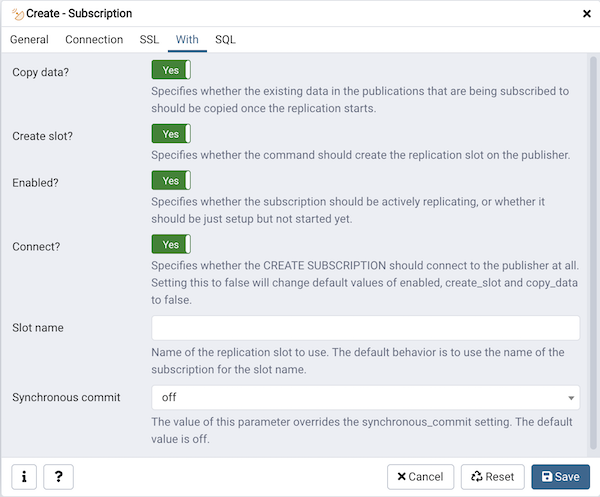
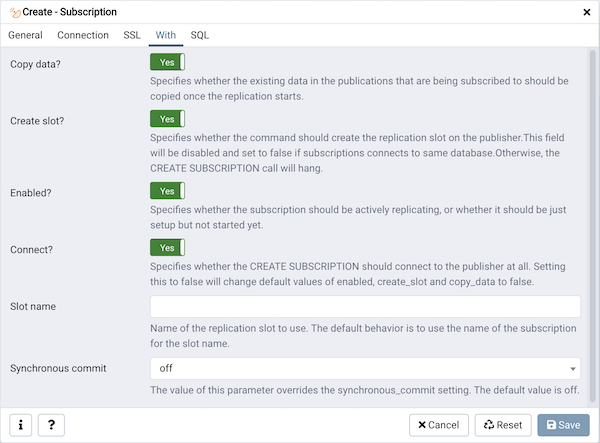
1) Fixed an issue where the user is unable to create a subscription if the host/IP address for connection is 127.0.0.1. Fixes #6253 2) Ensure that proper error message should be shown on the properties and statistics tab in case of insufficient privileges for a subscription. Fixes #6259 3) Fixed an 

diff --git a/web/pgadmin/browser/server_groups/servers/databases/subscriptions/static/js/subscription.js b/web/pgadmin/browser/server_groups/servers/databases/subscriptions/static/js/subscription.js
@@ -396,8 +396,8 @@ define('pgadmin.node.subscription', [
           type: 'switch', mode: ['create'],
           group: gettext('With'),
           disabled: 'isSameDB',
-          readonly: 'isConnect', deps :['connect', 'host'],
-          helpMessage: gettext('Specifies whether the command should create the replication slot on the publisher.'),
+          readonly: 'isConnect', deps :['connect', 'host', 'port'],
+          helpMessage: gettext('Specifies whether the command should create the replication slot on the publisher.This field will be disabled and set to false if subscription connects to same database.Otherwise, the CREATE SUBSCRIPTION call will hang.'),
 
         },
         {
@@ -456,7 +456,14 @@ define('pgadmin.node.subscription', [
           return true;
         },
         isSameDB:function(m){
-          if (m.attributes['host'] == m.node_info.server.host){
+          let host = m.attributes['host'],
+            port = m.attributes['port'];
+
+          if ((m.attributes['host'] == 'localhost' || m.attributes['host'] == '127.0.0.1') &&
+              (m.node_info.server.host == 'localhost' || m.node_info.server.host == '127.0.0.1')){
+            host = m.node_info.server.host;
+          }
+          if (host == m.node_info.server.host && port == m.node_info.server.port){
             setTimeout( function() {
               m.set('create_slot', false);
             }, 10);

diff --git a/web/pgadmin/browser/static/js/collection.js b/web/pgadmin/browser/static/js/collection.js
@@ -289,7 +289,8 @@ define([
               timer = setTimeout(function() {
                 // notify user if request is taking longer than 1 second
 
-                $msgContainer.text(gettext('Retrieving data from the server...'));
+                if (!$msgContainer.text()== 'Failed to retrieve data from the server.')
+                  $msgContainer.text(gettext('Retrieving data from the server...'));
                 $msgContainer.removeClass('d-none');
                 if (self.grid) {
                   self.grid.remove();

diff --git a/web/pgadmin/browser/server_groups/servers/databases/subscriptions/__init__.py b/web/pgadmin/browser/server_groups/servers/databases/subscriptions/__init__.py
@@ -195,7 +195,7 @@ class SubscriptionView(PGChildNodeView, SchemaDiffObjectCompare):
         'nodes': [{'get': 'node'}, {'get': 'nodes'}],
         'sql': [{'get': 'sql'}],
         'msql': [{'get': 'msql'}, {'get': 'msql'}],
-        'stats': [{'get': 'statistics'}],
+        'stats': [{'get': 'statistics'}, {'get': 'statistics'}],
         'dependency': [{'get': 'dependencies'}],
         'dependent': [{'get': 'dependents'}],
         'get_publications': [{}, {'get': 'get_publications'}],
@@ -260,11 +260,6 @@ class SubscriptionView(PGChildNodeView, SchemaDiffObjectCompare):
         sql = render_template("/".join([self.template_path,
                                         self._PROPERTIES_SQL]), did=did)
         status, res = self.conn.execute_dict(sql)
-
-        # Check for permission denied message
-        if 'permission denied' in res:
-            return internal_server_error(
-                errormsg="Access is revoked for normal users")
 
         if not status:
             return internal_server_error(errormsg=res)
@@ -386,7 +381,7 @@ class SubscriptionView(PGChildNodeView, SchemaDiffObjectCompare):
         return True, res['rows'][0]
 
     @check_precondition
-    def statistics(self, gid, sid, did, subid):
+    def statistics(self, gid, sid, did, subid=None):
         """
         This function gets the statistics and returns an ajax response
         for the view node.
@@ -399,7 +394,7 @@ class SubscriptionView(PGChildNodeView, SchemaDiffObjectCompare):
         """
         sql = render_template("/".join([self.template_path,
                                         'stats.sql']),
-                              subid=subid, conn=self.conn)
+                              subid=subid, did=did, conn=self.conn)
         status, res = self.conn.execute_dict(sql)
         return make_json_response(
             data=res,

diff --git a/web/pgadmin/browser/server_groups/servers/__init__.py b/web/pgadmin/browser/server_groups/servers/__init__.py
@@ -245,6 +245,7 @@ class ServerModule(sg.ServerGroupPluginModule):
                 in_recovery=in_recovery,
                 wal_pause=wal_paused,
                 host=server.host,
+                port=server.port,
                 is_password_saved=bool(server.save_password),
                 is_tunnel_password_saved=True
                 if server.tunnel_password is not None else False,

diff --git a/docs/en_US/release_notes_5_1.rst b/docs/en_US/release_notes_5_1.rst
@@ -24,3 +24,6 @@ Bug fixes
 | `Issue #6018 <https://redmine.postgresql.org/issues/6018>`_ -  Fixed encoding issue when database encoding set to SQL_ASCII and name of the column is in ASCII character.
 | `Issue #6159 <https://redmine.postgresql.org/issues/6159>`_ -  Ensure that the user should be able to kill the session from Dashboard if the user has a 'pg_signal_backend' role.
 | `Issue #6227 <https://redmine.postgresql.org/issues/6227>`_ -  Ensure PGADMIN_DEFAULT_EMAIL looks sane when initialising a container deployment.
+| `Issue #6253 <https://redmine.postgresql.org/issues/6253>`_ -  Fixed an issue where the user is unable to create a subscription if the host/IP address for connection is 127.0.0.1.
+| `Issue #6259 <https://redmine.postgresql.org/issues/6259>`_ -  Ensure that proper error message should be shown on the properties and statistics tab in case of insufficient privileges for a subscription.
+| `Issue #6260 <https://redmine.postgresql.org/issues/6260>`_ -  Fixed an issue where the 'Create Slot' option is disabled in case of the same IP/host provided but the port is different.
